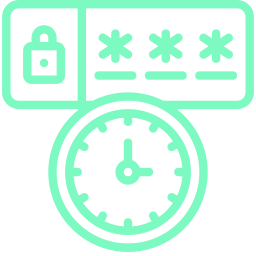
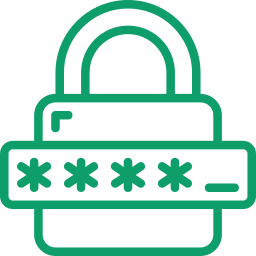
Implement AlertDialog on Submitting OTP & Bug Fixes

diff --git a/app/lib/pages/verify_otp.dart b/app/lib/pages/verify_otp.dart
@@ -21,6 +21,43 @@ class _VerifyOTPPageState extends State<VerifyOTPPage> {
     super.dispose();
   }
 
+  void _showDialog() {
+    showDialog(
+      barrierDismissible: false,
+      context: context,
+      builder: (context) {
+        return AlertDialog(
+          title: Row(
+            children: [
+              Icon(
+                Icons.task_alt_rounded,
+                color: context.colors.primary,
+              ),
+              const SizedBox(width: 8),
+              Text("Request recieved"),
+            ],
+          ),
+          content: Container(
+              padding: const EdgeInsets.all(12),
+              decoration: BoxDecoration(
+                borderRadius: BorderRadius.circular(12),
+                color: context.colors.surfaceContainer,
+              ),
+              child: Text(
+                  "Verification process may take some time. You will be notified when its done.")),
+          actions: [
+            TextButton(
+              onPressed: () {
+                Navigator.pop(context);
+              },
+              child: Text("OK"),
+            )
+          ],
+        );
+      },
+    );
+  }
+
   @override
   Widget build(BuildContext context) {
     final image = Theme.of(context).brightness == Brightness.dark
@@ -39,7 +76,9 @@ class _VerifyOTPPageState extends State<VerifyOTPPage> {
                     children: [
                       _content(context, image),
                       PrimaryButton(
-                        onTap: () {},
+                        onTap: () {
+                          _showDialog();
+                        },
                         label: "SUBMIT",
                       ),
                     ],
@@ -77,7 +116,7 @@ class _VerifyOTPPageState extends State<VerifyOTPPage> {
   Column _content(BuildContext context, image) {
     return Column(
       children: [
-        Image.asset(image, width: 150),
+        Image.asset(image, width: 120),
         Padding(
           padding: const EdgeInsets.only(top: 16, bottom: 32),
           child: Text(

diff --git a/app/lib/pages/verify_email.dart b/app/lib/pages/verify_email.dart
@@ -37,6 +37,9 @@ class _VerifyEmailPageState extends State<VerifyEmailPage> {
 
   @override
   Widget build(BuildContext context) {
+    final image = Theme.of(context).brightness == Brightness.dark
+        ? "assets/email_dark.png"
+        : "assets/email_light.png";
     return AppLayout(
       child: Stack(
         children: [
@@ -51,7 +54,7 @@ class _VerifyEmailPageState extends State<VerifyEmailPage> {
                     child: Column(
                       mainAxisAlignment: MainAxisAlignment.spaceEvenly,
                       children: [
-                        _headerSection(context),
+                        _headerSection(context, image),
                         _bottomSection(),
                       ],
                     ),
@@ -86,12 +89,15 @@ class _VerifyEmailPageState extends State<VerifyEmailPage> {
     );
   }
 
-  Column _headerSection(BuildContext context) {
+  Column _headerSection(
+    BuildContext context,
+    String image,
+  ) {
     return Column(
       children: [
-        Image.asset("assets/email.png", width: 150),
+        Image.asset(image, width: 130),
         Padding(
-          padding: const EdgeInsets.only(bottom: 32),
+          padding: const EdgeInsets.only(bottom: 32, top: 12),
           child: Text(
             "Verify your student identity",
             style: TextStyle(
@@ -119,7 +125,7 @@ class _VerifyEmailPageState extends State<VerifyEmailPage> {
         ),
         _divider(),
         SecondaryButton(
-          label: "LOG IN",
+          label: "SIGN IN WITH A WALLET",
           onTap: () {},
         ),
       ],
@@ -140,7 +146,7 @@ class _VerifyEmailPageState extends State<VerifyEmailPage> {
               height: 2,
             ),
           ),
-          Text("OR"),
+          Text("Already verified student ?"),
           Expanded(
             child: Divider(
               color: Colors.blueGrey.withAlpha(160),

diff --git a/app/lib/pages/role_selection.dart b/app/lib/pages/role_selection.dart
@@ -42,19 +42,26 @@ class _RoleSelectionPageState extends State<RoleSelectionPage> {
   @override
   Widget build(BuildContext context) {
     return AppLayout(
-      child: Column(
-        mainAxisAlignment: MainAxisAlignment.spaceEvenly,
-        children: [
-          _headerSection(context),
-          _illustrationsSection(context),
-          _identityButtons(),
-          PrimaryButton(
-            label: "CONTINUE",
-            onTap: identity == Identity.none ? null : onTapContinue,
-          )
-        ],
+        child: LayoutBuilder(
+      builder: (context, constraints) => SingleChildScrollView(
+        child: ConstrainedBox(
+          constraints: BoxConstraints(minHeight: constraints.maxHeight),
+          child: Column(
+            mainAxisAlignment: MainAxisAlignment.spaceEvenly,
+            children: [
+              _headerSection(context),
+              _illustrationsSection(context),
+              _identityButtons(),
+              PrimaryButton(
+                label: "CONTINUE",
+                onTap: identity == Identity.none ? null : onTapContinue,
+                isEnable: identity != Identity.none,
+              )
+            ],
+          ),
+        ),
       ),
-    );
+    ));
   }
 
   Column _identityButtons() {

diff --git a/app/lib/components/buttons/primary_button.dart b/app/lib/components/buttons/primary_button.dart
@@ -6,14 +6,16 @@ class PrimaryButton extends StatelessWidget {
     super.key,
     required this.onTap,
     required this.label,
+    this.isEnable = true,
   });
   final Function()? onTap;
   final String label;
+  final bool isEnable;
 
   @override
   Widget build(BuildContext context) {
     return Material(
-      color: context.colors.primary,
+      color: isEnable ? context.colors.primary : Colors.grey,
       borderRadius: BorderRadius.circular(12),
       child: InkWell(
         splashColor: Colors.white.withAlpha(100),

diff --git a/app/lib/main.dart b/app/lib/main.dart
@@ -24,7 +24,7 @@ class MyApp extends StatelessWidget {
   @override
   Widget build(BuildContext context) {
     return MaterialApp(
-      themeMode: ThemeMode.system,
+      themeMode: ThemeMode.light,
       theme: AppTheme.light,
       darkTheme: AppTheme.dark,
       home: RoleSelectionPage(),
